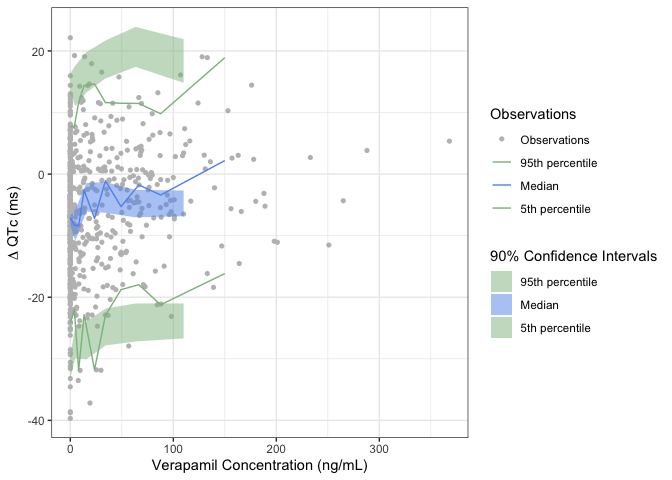
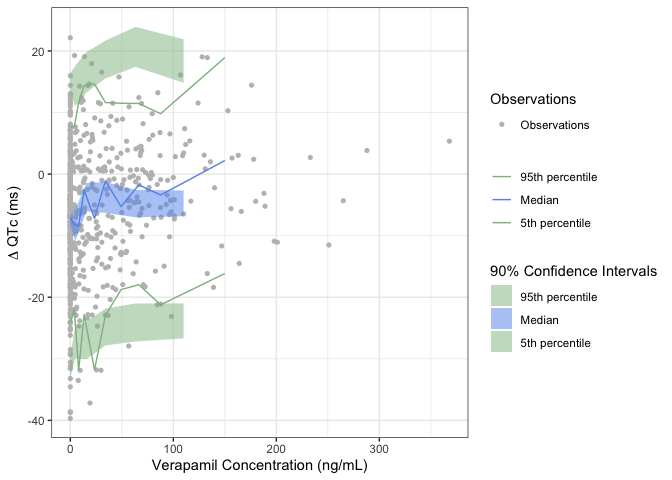
carry constant columns

Changed region(s): [[0.7188, 0.5, 1.0, 0.75], [0.7188, 0.1875, 0.9062, 0.4688]]

diff --git a/NEWS.md b/NEWS.md
@@ -1,6 +1,14 @@
 # cqtkit 1.2.1
 
+### Deprecated
+* `add_horizontal_references()` is deprecated. Use the `reference_threshold` argument of the plotting functions.
+
 ### Fixed
+* Reference lines, regression lines and `gof_vpc_plot()` percentile lines are named lines in the linetype legend, placed after the group legend. `reveal()` onto shapes gives a legend of the revealed column only, and `colors` and `linetypes` restyle each line by name, for example `"Reference 10"`.
+  * `eda_scatter_with_regressions()` draws the linear regression solid and the LOESS regression short-dashed.
+  * The linetype legend has no title. Legends placed side by side are bottom-aligned unless the theme sets `legend.box.just`.
+* `predict_with_observations_plot()` and `predict_with_quantiles_plot()` show predictions, observations and reference lines in one legend. Their points map colour only; set their shape with `style_spec(point_shape = )`.
+* `predict_with_exposure_plot()` shows reference and Cmax lines in one "Exposure" legend. `colors` recolours a Cmax line by name, for example `"Cmax_113.59"`.
 * Requires ggstylekit >= 0.4.1. `style_spec(caption = ...)` overrides generated plot captions, including exposure predictions; `caption = ""` hides them.
 * `eda_scatter_with_regressions()`, the `gof_*()` residual plots and `predict_with_observations_plot()` keep the remaining columns of `data` in the plot data, so `reveal()` can map a covariate on them.
   * `compute_fit_results()` and `compute_contrast_observations()` return the remaining columns of `data` after their computed columns.
